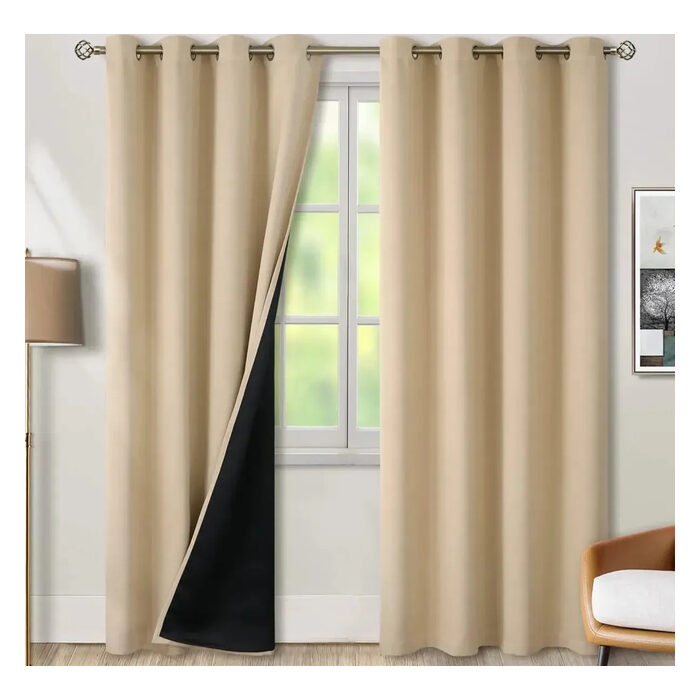
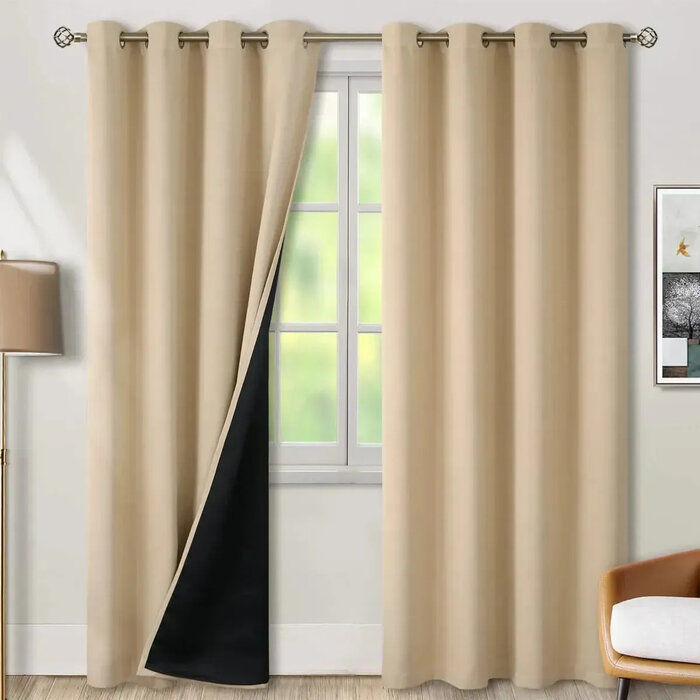
Corrige fotos com bordas brancas de 4 produtos, preenchendo o quadrado sem padding
Cortina Blackout, Jogo de Porta Copos Rattan e Kit Organizador de
Brinquedos usavam fotos retangulares de ambiente, que ficavam com
barras brancas ao serem encaixadas no quadrado 700x700. Agora são
recortadas (cover-fit) para preencher todo o espaço, centralizadas
no produto, sem bordas. Kit de Taças de Vinho teve a galeria
reordenada para abrir com a foto de produto limpa em vez da foto
de pessoas brindando.

Claude-Session: https://claude.ai/code/session_01HiLVUkbcnuoFXNLKCs43hQ

diff --git a/painel/index.html b/painel/index.html
@@ -3951,7 +3951,7 @@
     { img: 'fotos/p0072_0.jpg', name: 'Caixa Térmica de Isopor', price: 19.15, images: ['fotos/p0072_0.jpg', 'fotos/p0072_1.jpg', 'fotos/p0072_2.jpg', 'fotos/p0072_3.jpg', 'fotos/p0072_4.jpg'], cadastrado: false },
     { img: 'fotos/p0073_0.jpg', name: 'Cobertor Soft Casal 340g', price: 61.46, images: ['fotos/p0073_0.jpg', 'fotos/p0073_1.jpg', 'fotos/p0073_2.jpg'], cadastrado: false },
     { img: 'fotos/p0074_0.jpg', name: 'Fita Led Rgb 5 Metros com Controle', price: 34.54, images: ['fotos/p0074_0.jpg'], cadastrado: false },
-    { img: 'fotos/p0075_0.jpg', name: 'Kit 10 Taças de Vinho Cristal Acrílico', price: 69.15, images: ['fotos/p0075_0.jpg', 'fotos/p0075_1.jpg', 'fotos/p0075_2.jpg', 'fotos/p0075_3.jpg', 'fotos/p0075_4.jpg'], cadastrado: false },
+    { img: 'fotos/p0075_1.jpg', name: 'Kit 10 Taças de Vinho Cristal Acrílico', price: 69.15, images: ['fotos/p0075_1.jpg', 'fotos/p0075_2.jpg', 'fotos/p0075_3.jpg', 'fotos/p0075_4.jpg', 'fotos/p0075_0.jpg'], cadastrado: false },
     { img: 'fotos/p0076_0.jpg', name: 'Kit Ferramenta Eletricista 5 Peças', price: 23.0, images: ['fotos/p0076_0.jpg'], cadastrado: false },
     { img: 'fotos/p0077_0.jpg', name: 'Maleta Organizadora de Ferramentas', price: 61.46, images: ['fotos/p0077_0.jpg', 'fotos/p0077_1.jpg', 'fotos/p0077_2.jpg', 'fotos/p0077_3.jpg'], cadastrado: false },
     { img: 'fotos/p0078_0.jpg', name: 'Kit Organizador de Brinquedos Infantil', price: 76.85, images: ['fotos/p0078_0.jpg'], cadastrado: false },
